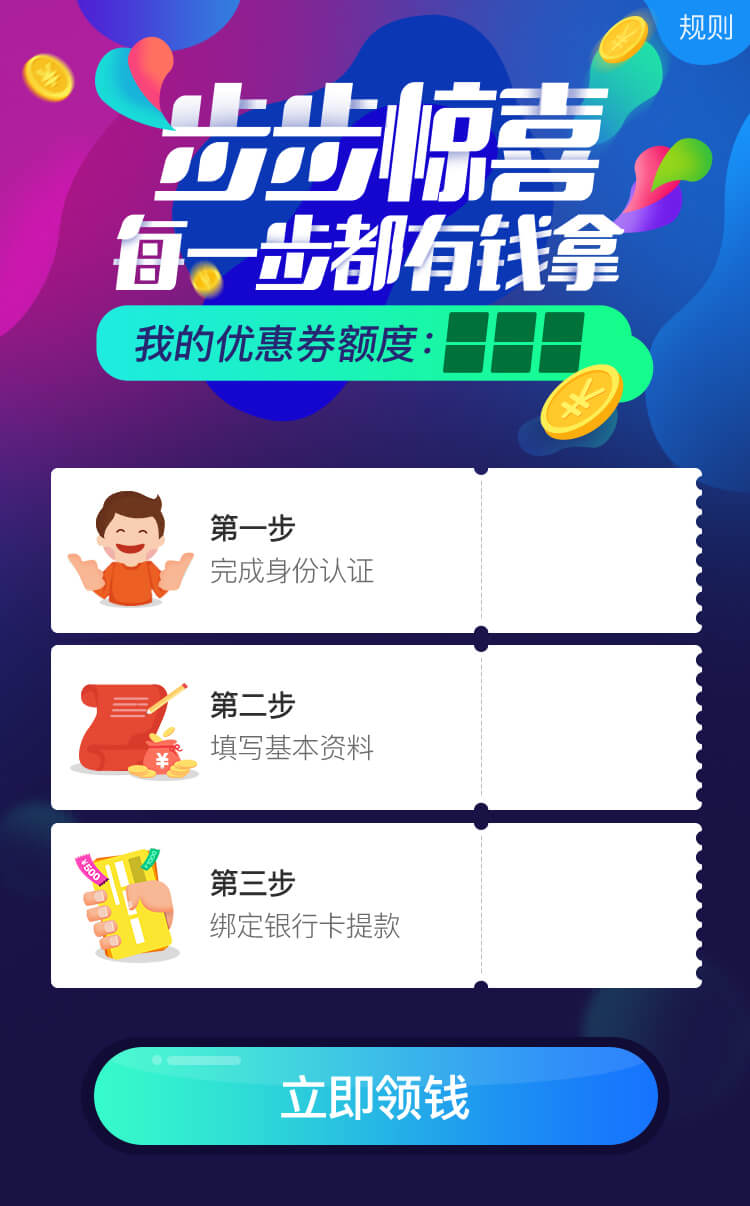
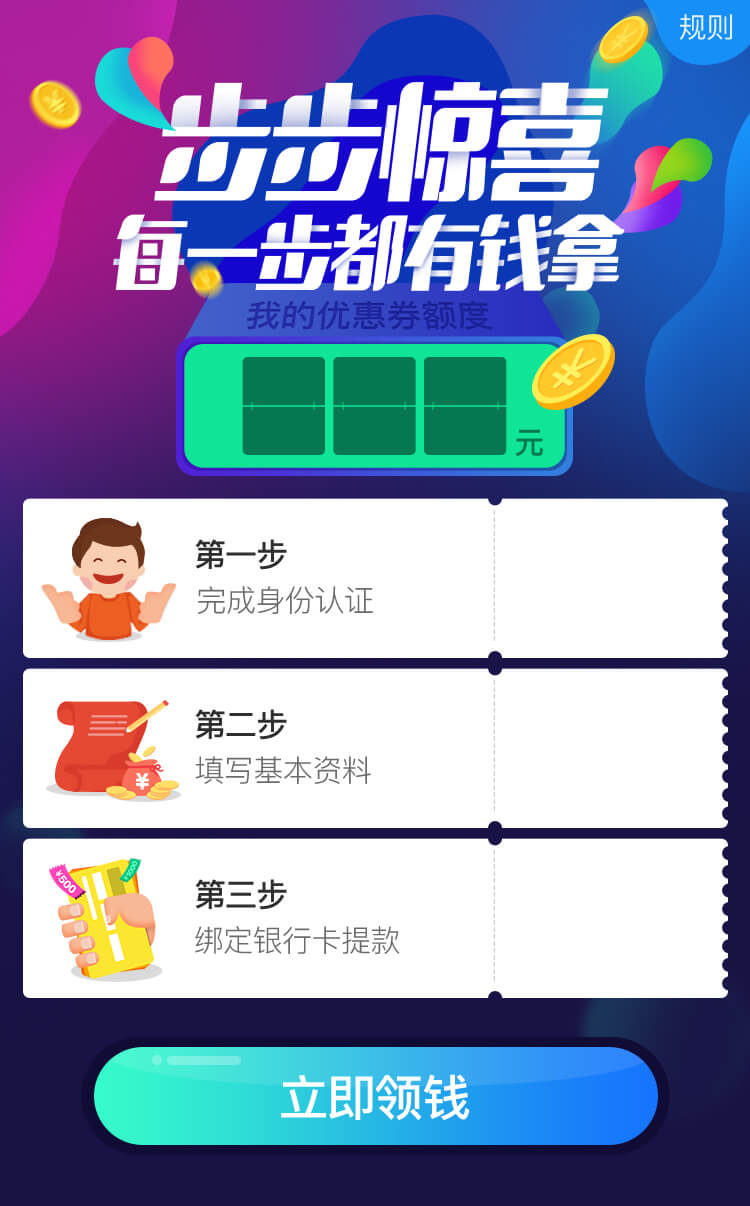
修改步步惊喜

diff --git a/huodong/static/css/20170627.css b/huodong/static/css/20170627.css
@@ -1,4 +1,4 @@
-@import url('basicFullPage.css');
+    @import url('basicFullPage.css');
 @import url('mtool.css');
 .wp {
     overflow: auto!important;
@@ -113,112 +113,68 @@
     margin-left: -2.85rem;
     left: 50%;
 }
+
 .data {
     color: #ffffff;
     font-weight: blod;
-    font-size: 0.6rem;
+    font-size: 1rem;
     line-height: 0.6rem;
     position: absolute;
-    top: 3.11rem;
-    left: 4.43rem;
-    transform: skew(-8deg);
+    top: 3.6rem;
+    width: 2.6rem;
+    height: 0.97rem;
+    line-height: 0.97rem;
+    left: 50%;
+    margin-left: -1.3rem;
+    /*transform: skew(-8deg);
     -ms-transform: skew(-8deg);
-    -webkit-transform: skew(-8deg);
-    letter-spacing: 0.14rem;
-    text-indent: 0.05rem;
+    -webkit-transform: skew(-8deg);*/
+    letter-spacing: 0.3rem;
+    text-indent: 0.1rem;
+    font-family: Microsoft YaHei;
+    font-weight: 600;
 }
-
-.data-set {
-    margin-right: 0.08rem;
-    text-align: center;
-    width: 0.41rem;
-        height: 0.6rem;
-    position: relative;
-    float: left;
-    transform: skew(-8deg);
-    -ms-transform: skew(-8deg);
-    /* IE 9 */
-    -webkit-transform: skew(-8deg);
-    /* Safari and Chrome */
-}
-
-.data-set img {
-    -moz-animation: rotate 0.6s  linear;
-    -webkit-animation: rotate 0.6s  linear;
-    animation: rotate 0.6s  linear;
-    /*transform: rotateY(360deg);
-    -ms-transform: rotateY(360deg);
-    -webkit-transform: rotateY(360deg);*/
-}
-
-@-moz-keyframes rotate {
-    0% {
-        -moz-transform: rotateX(0deg);
+    .content .prize {
+        position: absolute;
+        font-size: 0.6rem;
+        right: 12%;
     }
-    100% {
-        -moz-transform: rotateX(360deg);
+    .seal30 {
+        position: absolute;
+        top: 4.7rem;
+        left: 2.7rem;
+        width: 1.73rem;
+        height: 0.96rem;
+        background: url("../img/20170627_seal.png");
+        background-size: 100%;
     }
-}
-
-@-webkit-keyframes rotate {
-    0% {
-        -webkit-transform: rotateX(0deg);
+    .seal50 {
+        position: absolute;
+        top: 6.45rem;
+        left: 2.7rem;
+        width: 1.73rem;
+        height: 0.96rem;
+        background: url("../img/20170627_seal.png");
+        background-size: 100%;
     }
-    100% {
-        -webkit-transform: rotateX(360deg);
+    .seal70 {
+        position: absolute;
+        top: 8.23rem;
+        left: 2.7rem;
+        width: 1.73rem;
+        height: 0.96rem;
+        background: url("../img/20170627_seal.png");
+        background-size: 100%;
     }
-}
-
-@keyframes rotate {
-    0% {
-        transform: rotateX(0deg);
+    .money30 {
+        top: 5.38rem;
     }
-    100% {
-        transform: rotateX(360deg);
+    .money50 {
+        top: 7.1rem;
     }
-}
-.prize {
-    color: #ff5959;
-    font-size: 0.6rem;
-    position: absolute;
-    right: 16%;
-}
-.seal30 {
-    position: absolute;
-    top: 4.7rem;
-    left: 2.7rem;
-    width: 1.73rem;
-    height: 0.96rem;
-    background: url("../img/20170627_seal.png");
-    background-size: 100%;
-}
-.seal50 {
-    position: absolute;
-    top: 6.45rem;
-    left: 2.7rem;
-    width: 1.73rem;
-    height: 0.96rem;
-    background: url("../img/20170627_seal.png");
-    background-size: 100%;
-}
-.seal70 {
-    position: absolute;
-    top: 8.23rem;
-    left: 2.7rem;
-    width: 1.73rem;
-    height: 0.96rem;
-    background: url("../img/20170627_seal.png");
-    background-size: 100%;
-}
-.money30 {
-    top: 5.15rem;
-}
-.money50 {
-    top: 6.95rem;
-}
-.money70 {
-    top: 8.75rem;
-}
-.prize span {
-    font-size: 0.4rem;
-}
+    .money70 {
+        top: 8.8rem;
+    }
+    .prize span {
+        font-size: 0.4rem;
+    }

diff --git a/huodong/20170627/index.php b/huodong/20170627/index.php
@@ -33,7 +33,7 @@
     <div class="wp-inner">
         <div class="content">
             <img data-src="<?php echo $imgUrl; ?>bg.jpg" alt="">
-            <div class="data timer count-title" id="count-number" data-from="-99" data-to="150" data-speed="1200">000</div>
+            <div class="data timer count-title" id="count-number" data-from="999" data-to="150" data-speed="1000"></div>
             <div class="prize money30"><span>+</span>30</div>
             <div class="prize money50"><span>+</span>50</div>
             <div class="prize money70"><span>+</span>70</div>
